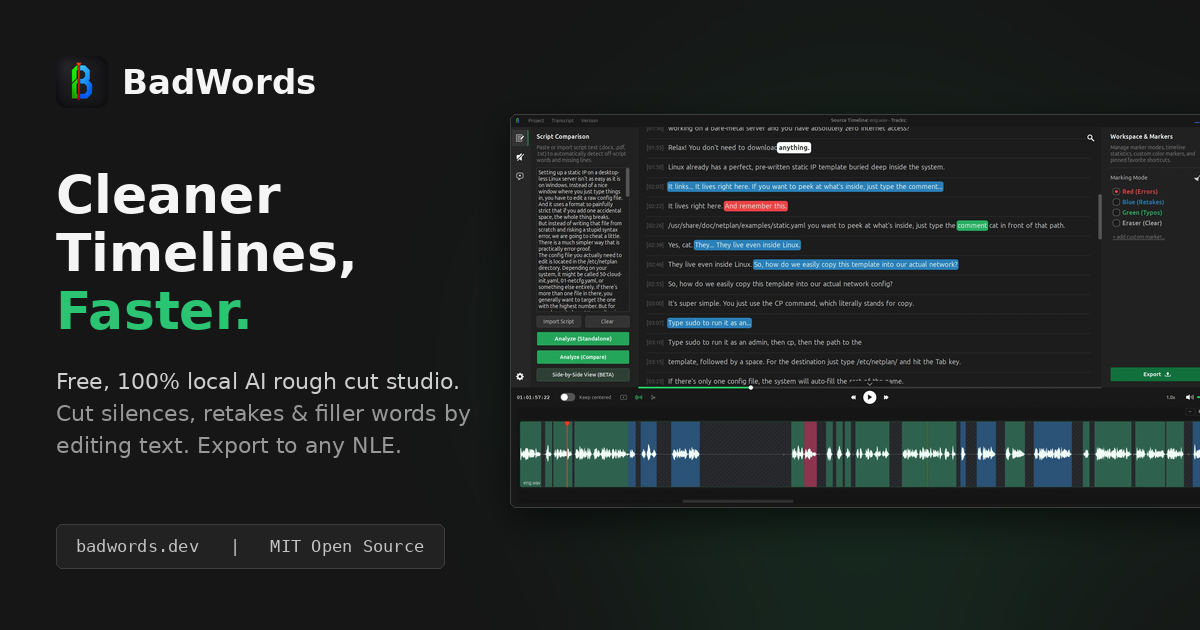
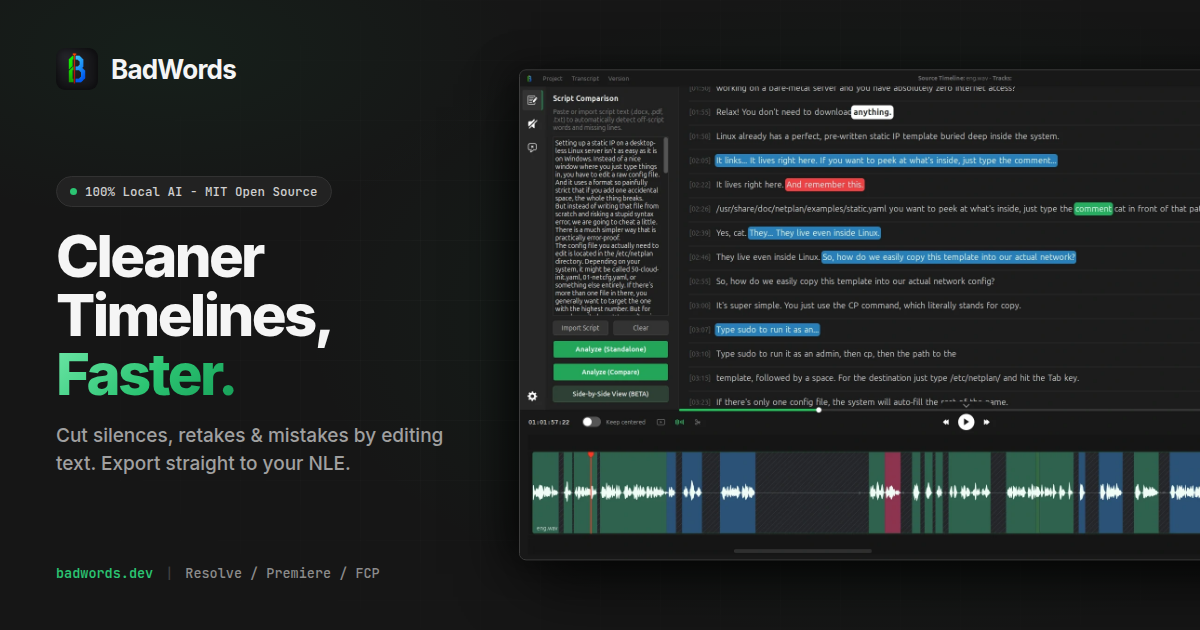
website: redesign crisp Chrome-rendered og-image.png matching matte theme

diff --git a/website/index.html b/website/index.html
@@ -13,14 +13,14 @@
   <meta property="og:title" content="BadWords - Cleaner Timelines, Faster." />
   <meta property="og:description" content="Free, 100% local AI rough cut editor. Transcribe offline, delete silences and mistakes like text, and export frame-accurate timelines to any NLE." />
   <meta property="og:url" content="https://badwords.dev/" />
-  <meta property="og:image" content="https://badwords.dev/assets/img/og-image.png?v=20261127k" />
+  <meta property="og:image" content="https://badwords.dev/assets/img/og-image.png?v=20261127n" />
   <meta property="og:image:width" content="1200" />
   <meta property="og:image:height" content="630" />
 
   <meta name="twitter:card" content="summary_large_image" />
   <meta name="twitter:title" content="BadWords - Free Local AI Rough Cut Video Editor" />
   <meta name="twitter:description" content="Automate ~80% of dialogue rough cuts offline on your GPU or CPU. Free MIT open source." />
-  <meta name="twitter:image" content="https://badwords.dev/assets/img/og-image.png?v=20261127k" />
+  <meta name="twitter:image" content="https://badwords.dev/assets/img/og-image.png?v=20261127n" />
 
   <link rel="icon" href="/favicon.ico" sizes="any" />
   <link rel="icon" type="image/png" sizes="32x32" href="/assets/img/favicon-32x32.png" />

diff --git a/website/features/index.html b/website/features/index.html
@@ -13,12 +13,12 @@
   <meta property="og:title" content="Features - BadWords v4 AI Rough Cut Studio" />
   <meta property="og:description" content="See every BadWords v4 tool in action: verbatim transcript editor, live silence sliders, standalone drop zone, Resolve heatmap, and multi-format timeline export." />
   <meta property="og:url" content="https://badwords.dev/features" />
-  <meta property="og:image" content="https://badwords.dev/assets/img/og-image.png?v=20261127k" />
+  <meta property="og:image" content="https://badwords.dev/assets/img/og-image.png?v=20261127n" />
 
   <meta name="twitter:card" content="summary_large_image" />
   <meta name="twitter:title" content="Features - BadWords v4 AI Rough Cut Studio" />
   <meta name="twitter:description" content="Local AI rough cutting with real-time silence tuning, script comparison, and linked XML export." />
-  <meta name="twitter:image" content="https://badwords.dev/assets/img/og-image.png?v=20261127k" />
+  <meta name="twitter:image" content="https://badwords.dev/assets/img/og-image.png?v=20261127n" />
 
   <link rel="icon" href="/favicon.ico" sizes="any" />
   <link rel="icon" type="image/png" sizes="32x32" href="/assets/img/favicon-32x32.png" />

diff --git a/website/davinci-resolve/index.html b/website/davinci-resolve/index.html
@@ -13,12 +13,12 @@
   <meta property="og:title" content="DaVinci Resolve Free 21.1+ &amp; Studio Integration - BadWords" />
   <meta property="og:description" content="Text-based rough cutting and silence removal for both DaVinci Resolve Free (via Lua Bridge) and Studio." />
   <meta property="og:url" content="https://badwords.dev/davinci-resolve" />
-  <meta property="og:image" content="https://badwords.dev/assets/img/og-image.png?v=20261127k" />
+  <meta property="og:image" content="https://badwords.dev/assets/img/og-image.png?v=20261127n" />
 
   <meta name="twitter:card" content="summary_large_image" />
   <meta name="twitter:title" content="BadWords for DaVinci Resolve Free 21.1+ &amp; Studio" />
   <meta name="twitter:description" content="Full Lua Bridge support, linked A/V clips via FCP7 XML, and colored timeline heatmaps." />
-  <meta name="twitter:image" content="https://badwords.dev/assets/img/og-image.png?v=20261127k" />
+  <meta name="twitter:image" content="https://badwords.dev/assets/img/og-image.png?v=20261127n" />
 
   <link rel="icon" href="/favicon.ico" sizes="any" />
   <link rel="icon" type="image/png" sizes="32x32" href="/assets/img/favicon-32x32.png" />

diff --git a/website/compare/index.html b/website/compare/index.html
@@ -13,12 +13,12 @@
   <meta property="og:title" content="BadWords vs Gling, Descript &amp; Resolve Studio - Free Local Alternative" />
   <meta property="og:description" content="Zero subscriptions, zero cloud uploads. See how BadWords stacks up against Gling, Descript, and DaVinci Resolve Studio." />
   <meta property="og:url" content="https://badwords.dev/compare" />
-  <meta property="og:image" content="https://badwords.dev/assets/img/og-image.png?v=20261127k" />
+  <meta property="og:image" content="https://badwords.dev/assets/img/og-image.png?v=20261127n" />
 
   <meta name="twitter:card" content="summary_large_image" />
   <meta name="twitter:title" content="BadWords vs Gling &amp; Descript - Free Local Alternative" />
   <meta name="twitter:description" content="Save $180-$360/year and keep raw footage off cloud servers." />
-  <meta name="twitter:image" content="https://badwords.dev/assets/img/og-image.png?v=20261127k" />
+  <meta name="twitter:image" content="https://badwords.dev/assets/img/og-image.png?v=20261127n" />
 
   <link rel="icon" href="/favicon.ico" sizes="any" />
   <link rel="icon" type="image/png" sizes="32x32" href="/assets/img/favicon-32x32.png" />

diff --git a/website/docs/index.html b/website/docs/index.html
@@ -13,12 +13,12 @@
   <meta property="og:title" content="BadWords v4.1.2 Documentation &amp; User Manual" />
   <meta property="og:description" content="Official manual for BadWords v4: Standalone Mode, DaVinci Resolve 21.1+ Bridge, Silence Tuning, Script Diff, and XML/OTIO/EDL export." />
   <meta property="og:url" content="https://badwords.dev/docs" />
-  <meta property="og:image" content="https://badwords.dev/assets/img/og-image.png?v=20261127k" />
+  <meta property="og:image" content="https://badwords.dev/assets/img/og-image.png?v=20261127n" />
 
   <meta name="twitter:card" content="summary_large_image" />
   <meta name="twitter:title" content="BadWords v4.1.2 Documentation" />
   <meta name="twitter:description" content="Official manual for local AI rough cutting in BadWords v4." />
-  <meta name="twitter:image" content="https://badwords.dev/assets/img/og-image.png?v=20261127k" />
+  <meta name="twitter:image" content="https://badwords.dev/assets/img/og-image.png?v=20261127n" />
 
   <link rel="icon" href="/favicon.ico" sizes="any" />
   <link rel="apple-touch-icon" sizes="180x180" href="/assets/img/apple-touch-icon.png" />

diff --git a/website/download/index.html b/website/download/index.html
@@ -13,12 +13,12 @@
   <meta property="og:title" content="Download BadWords v4.1.2 - Choose Your OS" />
   <meta property="og:description" content="Pick Windows, macOS, or Linux to install BadWords locally with no admin privileges required." />
   <meta property="og:url" content="https://badwords.dev/download" />
-  <meta property="og:image" content="https://badwords.dev/assets/img/og-image.png?v=20261127k" />
+  <meta property="og:image" content="https://badwords.dev/assets/img/og-image.png?v=20261127n" />
 
   <meta name="twitter:card" content="summary_large_image" />
   <meta name="twitter:title" content="Download BadWords v4.1.2" />
   <meta name="twitter:description" content="Free local AI rough cut studio for Windows, macOS, and Linux." />
-  <meta name="twitter:image" content="https://badwords.dev/assets/img/og-image.png?v=20261127k" />
+  <meta name="twitter:image" content="https://badwords.dev/assets/img/og-image.png?v=20261127n" />
 
   <link rel="icon" href="/favicon.ico" sizes="any" />
   <link rel="icon" type="image/png" sizes="32x32" href="/assets/img/favicon-32x32.png" />

diff --git a/website/download/mac/index.html b/website/download/mac/index.html
@@ -12,7 +12,7 @@
   <meta property="og:title" content="Download BadWords for macOS (Apple Silicon MLX &amp; Intel)" />
   <meta property="og:description" content="One-line Terminal install or direct macOS binary with native Apple Silicon MLX (~11x faster than CPU). Zero sudo needed." />
   <meta property="og:url" content="https://badwords.dev/download/mac" />
-  <meta property="og:image" content="https://badwords.dev/assets/img/og-image.png?v=20261127k" />
+  <meta property="og:image" content="https://badwords.dev/assets/img/og-image.png?v=20261127n" />
 
   <link rel="icon" href="/favicon.ico" sizes="any" />
   <link rel="apple-touch-icon" sizes="180x180" href="/assets/img/apple-touch-icon.png" />

diff --git a/website/download/windows/index.html b/website/download/windows/index.html
@@ -12,7 +12,7 @@
   <meta property="og:title" content="Download BadWords for Windows 10 &amp; 11" />
   <meta property="og:description" content="One-line PowerShell install or direct .exe installer. Supports NVIDIA CUDA GPUs and CPU laptops without Admin privileges." />
   <meta property="og:url" content="https://badwords.dev/download/windows" />
-  <meta property="og:image" content="https://badwords.dev/assets/img/og-image.png?v=20261127k" />
+  <meta property="og:image" content="https://badwords.dev/assets/img/og-image.png?v=20261127n" />
 
   <link rel="icon" href="/favicon.ico" sizes="any" />
   <link rel="apple-touch-icon" sizes="180x180" href="/assets/img/apple-touch-icon.png" />

diff --git a/website/download/linux/index.html b/website/download/linux/index.html
@@ -12,7 +12,7 @@
   <meta property="og:title" content="Download BadWords for Linux (Wayland &amp; X11)" />
   <meta property="og:description" content="One-line curl install or direct Linux binary across Ubuntu, Fedora, Arch, and immutable distros. Zero sudo required." />
   <meta property="og:url" content="https://badwords.dev/download/linux" />
-  <meta property="og:image" content="https://badwords.dev/assets/img/og-image.png?v=20261127k" />
+  <meta property="og:image" content="https://badwords.dev/assets/img/og-image.png?v=20261127n" />
 
   <link rel="icon" href="/favicon.ico" sizes="any" />
   <link rel="apple-touch-icon" sizes="180x180" href="/assets/img/apple-touch-icon.png" />

diff --git a/website/changelog/index.html b/website/changelog/index.html
@@ -12,7 +12,7 @@
   <meta property="og:title" content="Changelog (v1.0.0 - v4.1.2) - BadWords" />
   <meta property="og:description" content="Full release timeline of BadWords across v4, v3, v2, and v1." />
   <meta property="og:url" content="https://badwords.dev/changelog" />
-  <meta property="og:image" content="https://badwords.dev/assets/img/og-image.png?v=20261127k" />
+  <meta property="og:image" content="https://badwords.dev/assets/img/og-image.png?v=20261127n" />
 
   <link rel="icon" href="/favicon.ico" sizes="any" />
   <link rel="apple-touch-icon" sizes="180x180" href="/assets/img/apple-touch-icon.png" />

diff --git a/website/privacy/index.html b/website/privacy/index.html
@@ -12,7 +12,7 @@
   <meta property="og:title" content="Privacy Policy - BadWords" />
   <meta property="og:description" content="100% local processing. Never uploads media, transcripts, or scripts." />
   <meta property="og:url" content="https://badwords.dev/privacy" />
-  <meta property="og:image" content="https://badwords.dev/assets/img/og-image.png?v=20261127k" />
+  <meta property="og:image" content="https://badwords.dev/assets/img/og-image.png?v=20261127n" />
 
   <link rel="icon" href="/favicon.ico" sizes="any" />
   <link rel="apple-touch-icon" sizes="180x180" href="/assets/img/apple-touch-icon.png" />
